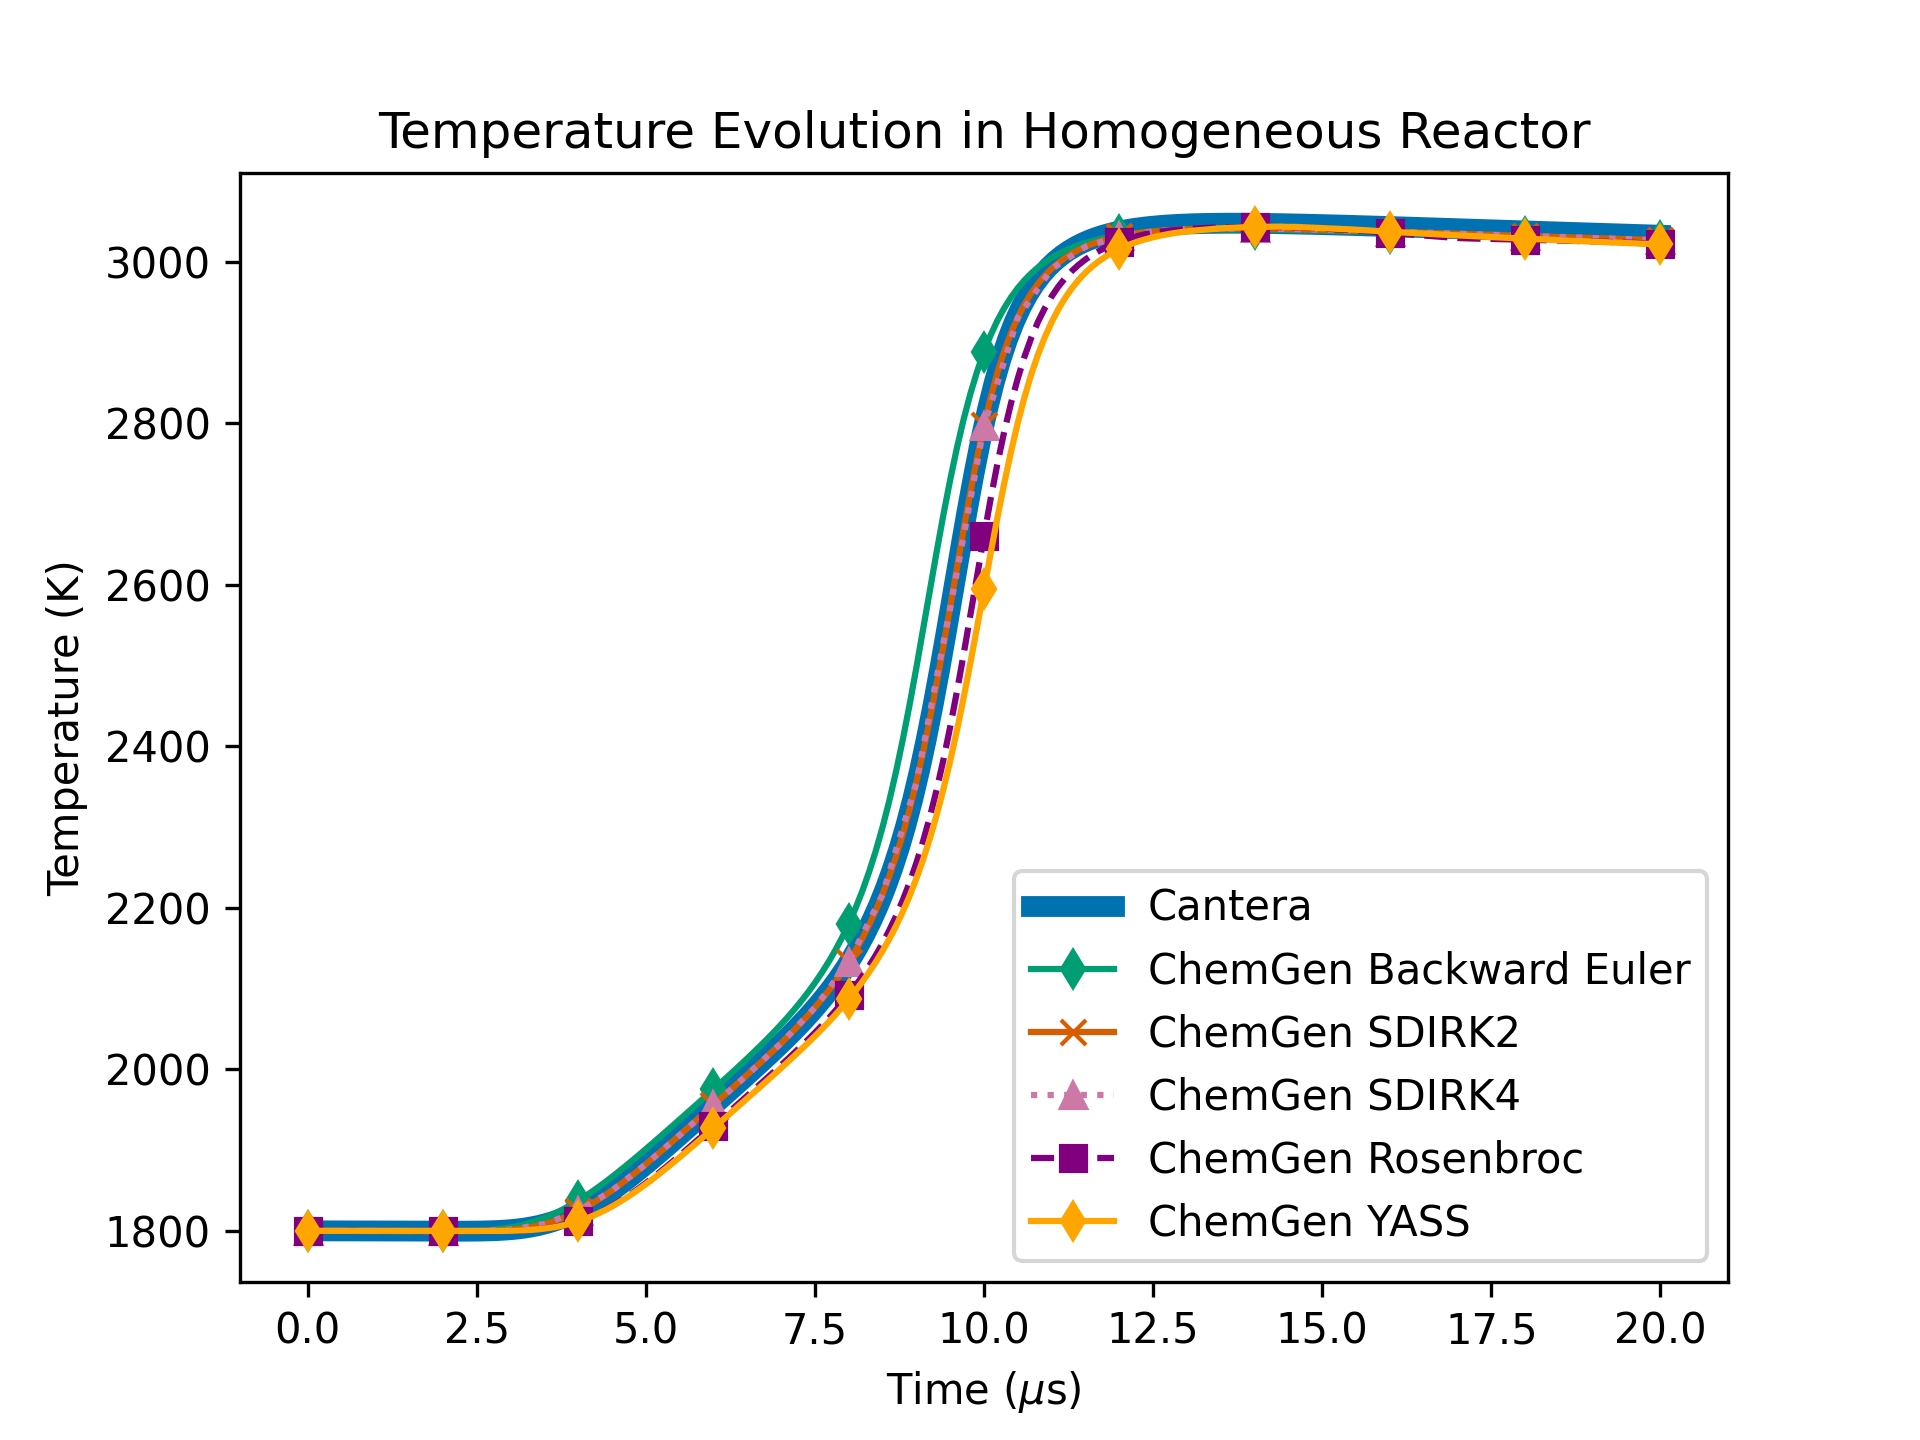
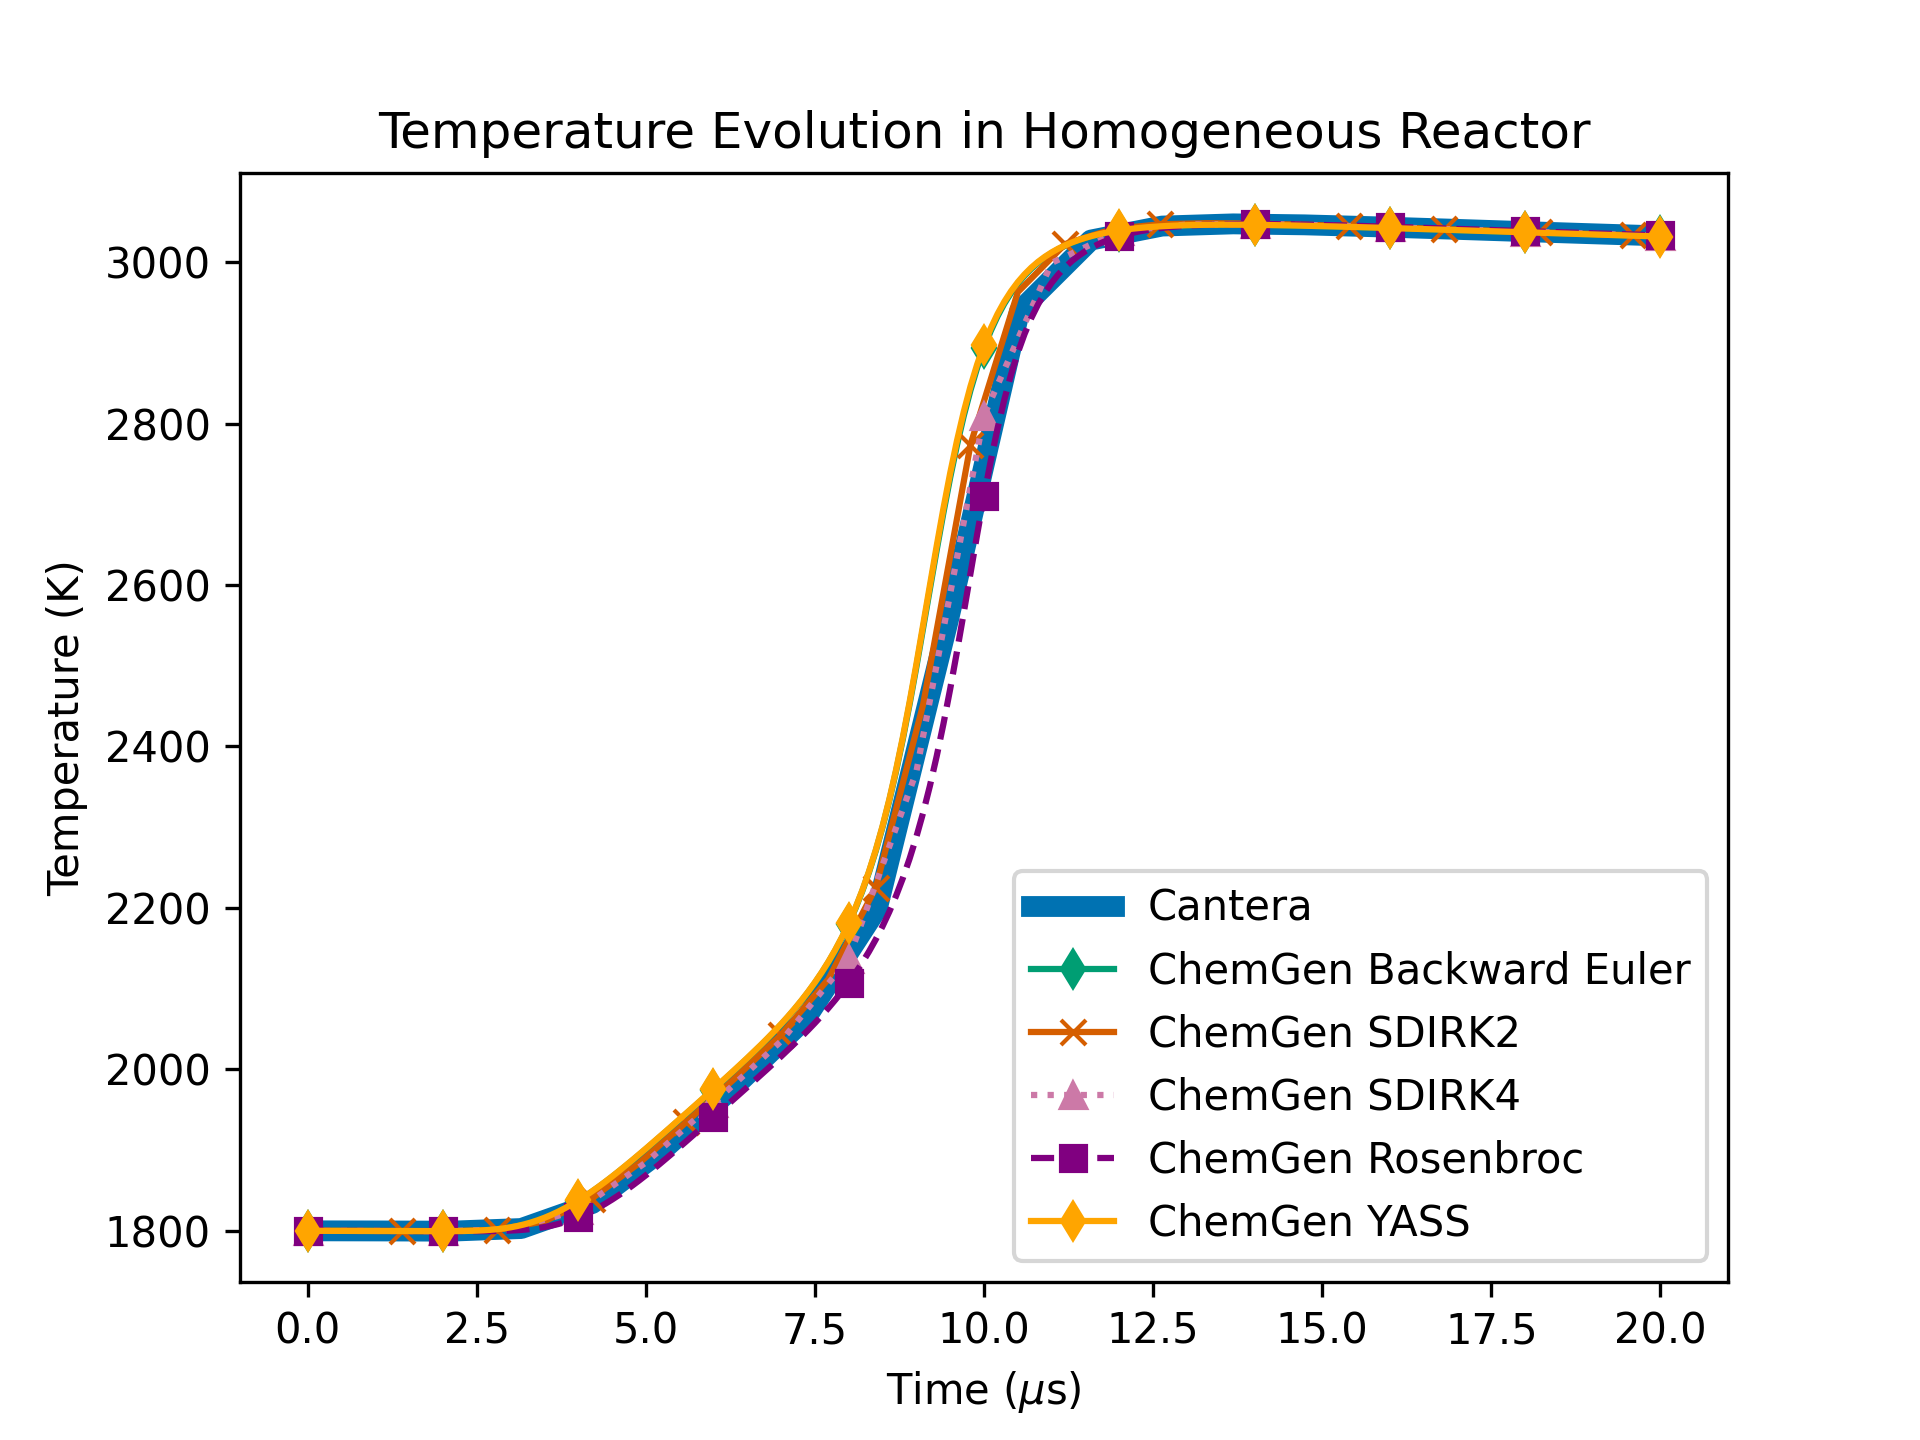
updates to 04_implicit

Changed region(s): [[0.25, 0.125, 0.875, 0.875], [0.1875, 0.8438, 0.2188, 0.875], [0.0625, 0.2812, 0.0938, 0.3125]]

diff --git a/paper/data/04_implicit/post_ct.py b/paper/data/04_implicit/post_ct.py
@@ -31,12 +31,12 @@ gas.TPX = (
 )
 
 # Create a reactor and insert the gas
-reactor = ct.IdealGasReactor(gas)
+reactor = ct.IdealGasMoleReactor(gas)
 network = ct.ReactorNet([reactor])
 
 # Define simulation time (in seconds)
 time_end = 2e-5
-dt_small = 1e-7
+dt_small = 1e-6
 n_steps = int(time_end/dt_small)
 #time_end = 200 * 2e-7  # Convert ns to seconds
 #n_steps = 200  # Number of time steps
@@ -44,12 +44,23 @@ time = np.linspace(0, time_end, n_steps)
 
 temperature = []
 data = []
-import time as clock 
+# Before the loop, set solver options
+network.linear_solver_type = 'GMRES'           # Use GMRES instead of dense solver
+network.preconditioner = ct.AdaptivePreconditioner()
+network.derivative_settings = {"skip-third-bodies":True, "skip-falloff":True}
+network.rtol = 1e-10                           # Optional: tighter relative tolerance
+network.atol = 1e-20                           # Optional: tighter absolute tolerance
+
+# Now run the simulation loop
+
+import time as clock
 start_time = clock.time()
+
 for t in time:
     network.advance(t)
     temperature.append(reactor.T)
     data.append([t, reactor.T])
+
 end_time = clock.time()
 print(f"Elapsed time: {end_time - start_time:.6f} seconds")
 data = np.array(data)

diff --git a/paper/data/04_implicit/post_timings.py b/paper/data/04_implicit/post_timings.py
@@ -1,16 +1,16 @@
 #!python3
 import numpy as np
 '''
-[Backward Euler] Time elapsed: 0.225836 seconds
-[SDIRK2] Time elapsed: 0.385753 seconds
-[ROSENBROC] Time elapsed: 0.0907028 seconds
-[YASS] Time elapsed: 0.0585083 seconds
-[RK4] Time elapsed: 0.326525 seconds
-[SDIRK4] Time elapsed: 0.261711 seconds
+[Backward Euler] Time elapsed: 0.191271 seconds
+[SDIRK2] Time elapsed: 0.0758483 seconds
+[ROSENBROC] Time elapsed: 0.106801 seconds
+[YASS] Time elapsed: 0.075036 seconds
+[RK4] Time elapsed: 0.286059 seconds
+[SDIRK4] Time elapsed: 0.0687864 seconds
 '''
-time = np.array([0.222798, 0.385753, 0.0907028, 0.0585083, 0.309098 , 0.261711])
-cantera_time =  0.0586651
-time_norm = time/cantera_time
+time = np.array([0.191271, 0.0758483, 0.106801, 0.075036, 0.309098 , 0.0687864])
+cantera_time =   0.241663
+time_norm = cantera_time/time
 imp_types = "Backward Euler, SDIRK2, ROSENBROC, YASS, RK4, SDIRK4"
 imp_types_array = imp_types.split(",")
 for t, it in zip(time_norm, imp_types_array):

diff --git a/paper/data/04_implicit/custom_test_cantera.py b/paper/data/04_implicit/custom_test_cantera.py
@@ -208,7 +208,8 @@ void run_cantera_reactornet(double T0,
     {{
         double tm = i*dt;
         sim.advance(tm);
-        //std::cout << "time = " << tm << " s" << std::endl;
+        double T = r->temperature();
+        std::cout << "time = " << tm << " s " << T << " K"<<std::endl;
     }}
     auto cantera_end = std::chrono::high_resolution_clock::now();
 
